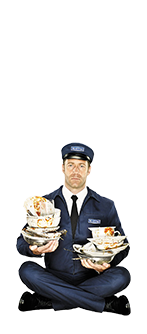
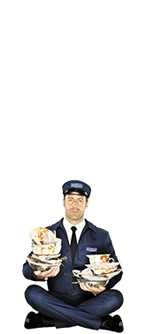
Fixed elements jumping when navigating between views. Fixed relative size of maytag men on category hover.

Changed region(s): [[0.1088, 0.4192, 0.898, 1.0]]

diff --git a/app/scss/structure/_app-main.scss b/app/scss/structure/_app-main.scss
@@ -23,8 +23,10 @@
 	@include make-row;
 	padding-bottom: 25px;
 	@include noselect;
+
 	.app-content-main-top-left {
 		@include make-md-column(8);
+		min-height: 110px;
 	}
 	.app-content-main-top-right {
 		@include make-md-column(4);

diff --git a/app/scss/brands/maytag/_app-main-mt.scss b/app/scss/brands/maytag/_app-main-mt.scss
@@ -384,6 +384,8 @@
 			margin-top: 68px;
 		}
 	}
+
+
 }
 
 .slidey.animateLeft {
